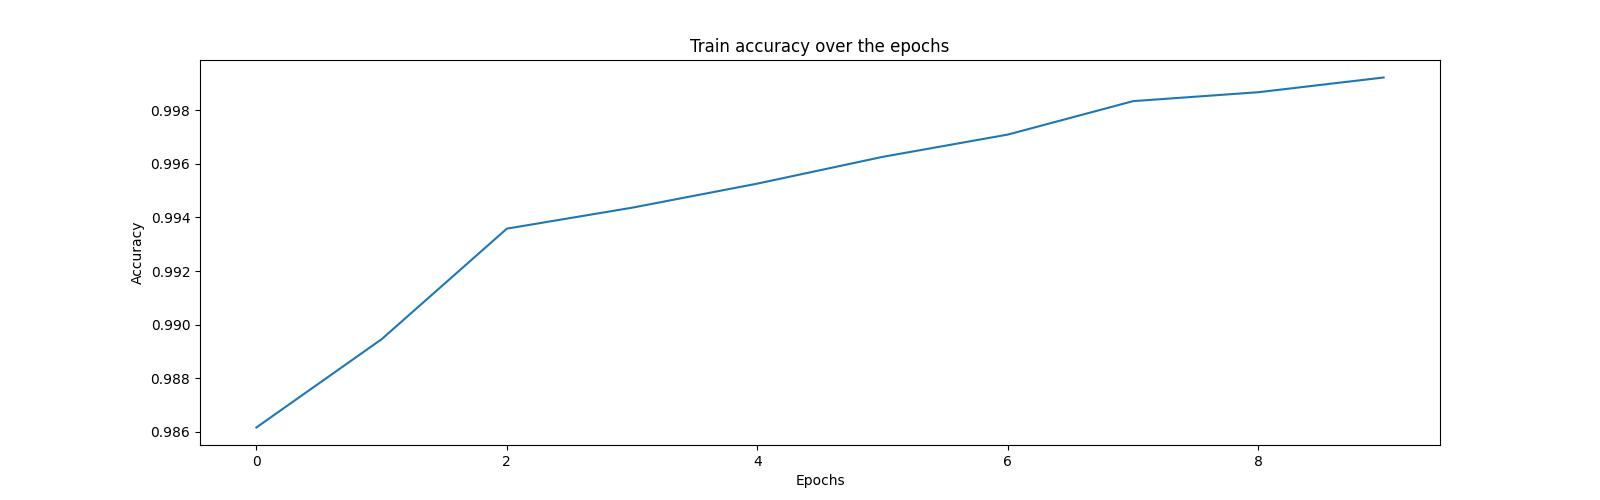
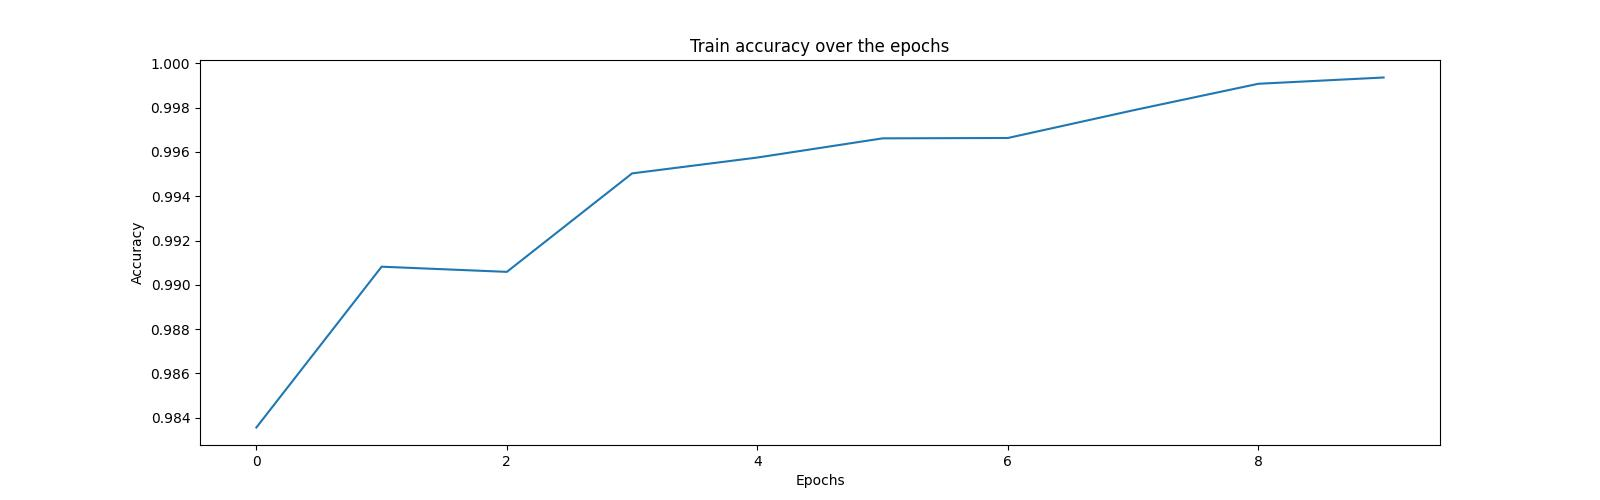
quickfix

diff --git a/projekt.py b/projekt.py
@@ -178,8 +178,6 @@ def eval_after_epoch(model, x, y_):
 
 def show_weights(weights):
     fig = plt.figure(figsize=(16, 8))
-    # print(len(weights))
-    #print(weights[:, 0].detach().cpu().numpy().shape)
     for i in range(10):
         plt.subplot(2, 5, i + 1)
         plt.imshow((weights[:, i].detach().cpu().numpy()).reshape(28, 28))
@@ -194,13 +192,15 @@ def show_loss(loss):
     plt.legend()
     plt.show()
 
-def show_train_accuracies(accs, name, path):
+def show_train_accuracies(accs, epochs, name, path):
     fig = plt.figure(figsize=(16,5))
-    plt.plot(range(len(accs)), np.array(accs))
+    epochs_step = epochs / 10
+    epochs = np.arange(0, epochs, epochs_step)
+    plt.plot(epochs, np.array(accs))
     plt.xlabel("Epochs")
     plt.ylabel("Accuracy")
     plt.title("Train accuracy over the epochs")
-    #plt.savefig(path + name)
+    plt.savefig(path + name)
     plt.show()
 
 if __name__ == "__main__":
@@ -213,8 +213,10 @@ if __name__ == "__main__":
     start_time = time.time()
     model = FCmodel(torch.relu, 784, 250, 10).to(device)
     losses, train_accuracies = train(model, x_train, y_train, param_niter=300, param_delta=0.07, batch_size=50, epoch_print=30)
+
     # model = ConvModel().to(device)
     # losses, train_accuracies = train(model, x_train, y_train, param_niter=10, param_delta=0.07, batch_size=50, epoch_print=1, conv=True)
+
     print("--- %s seconds ---" % (time.time() - start_time))
     #torch.save(model, './models/fcmodel2.txt')
     """
@@ -246,7 +248,7 @@ if __name__ == "__main__":
 
         # show_loss(losses)
         # show_weights(model.weights[0])
-        # show_train_accuracies(train_accuracies, "fcmodel1_train_acc.jpg", "./stats/")
-        # show_train_accuracies(train_accuracies, "convmodel1_train_acc.jpg", "./stats/")
+        # show_train_accuracies(train_accuracies, 300, "fcmodel1_train_acc.jpg", "./stats/")
+        # show_train_accuracies(train_accuracies, 10, "convmodel1_train_acc.jpg", "./stats/")
         
     model.train()
